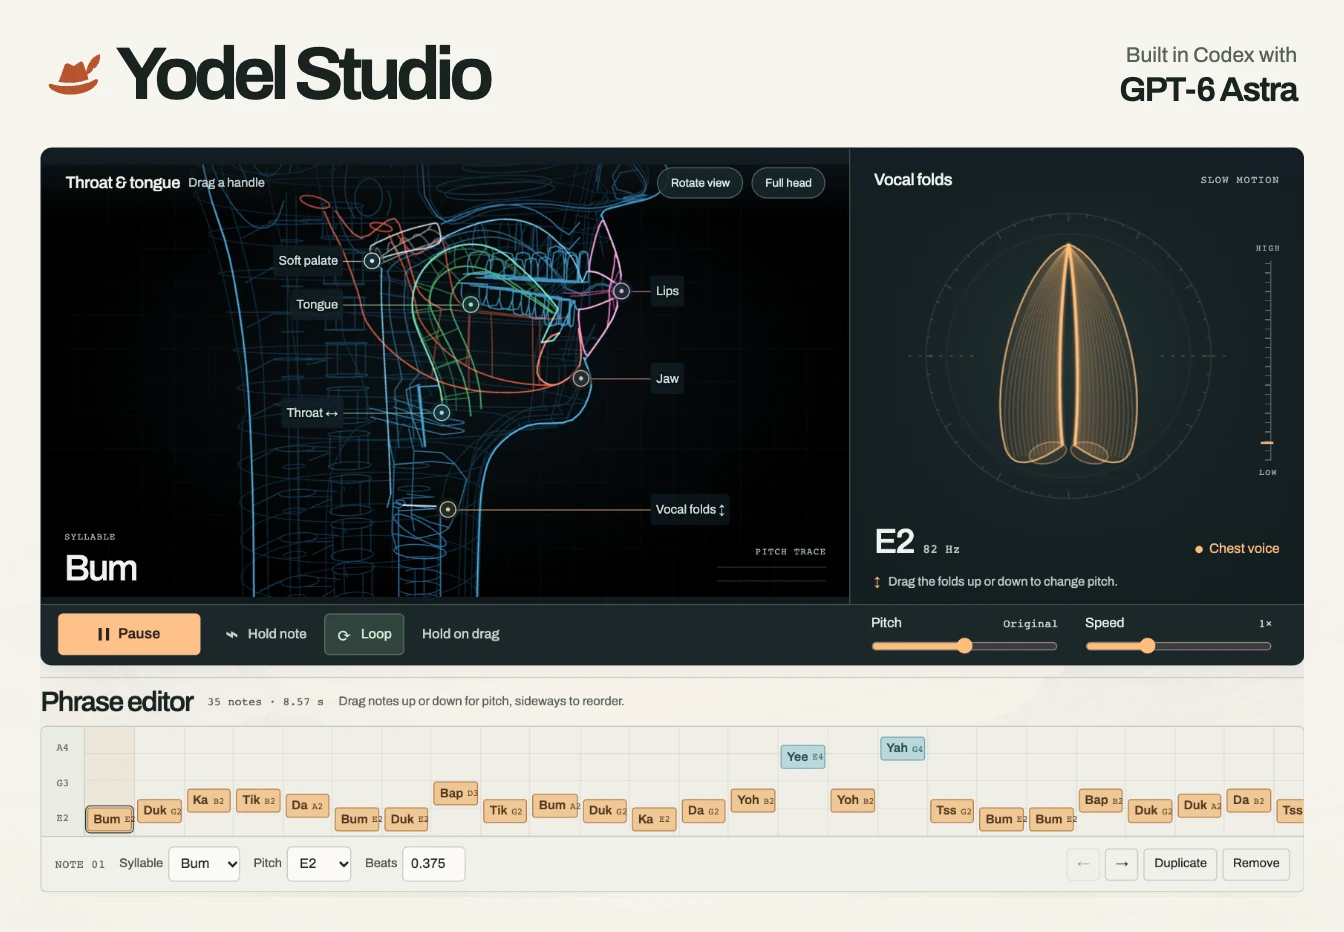
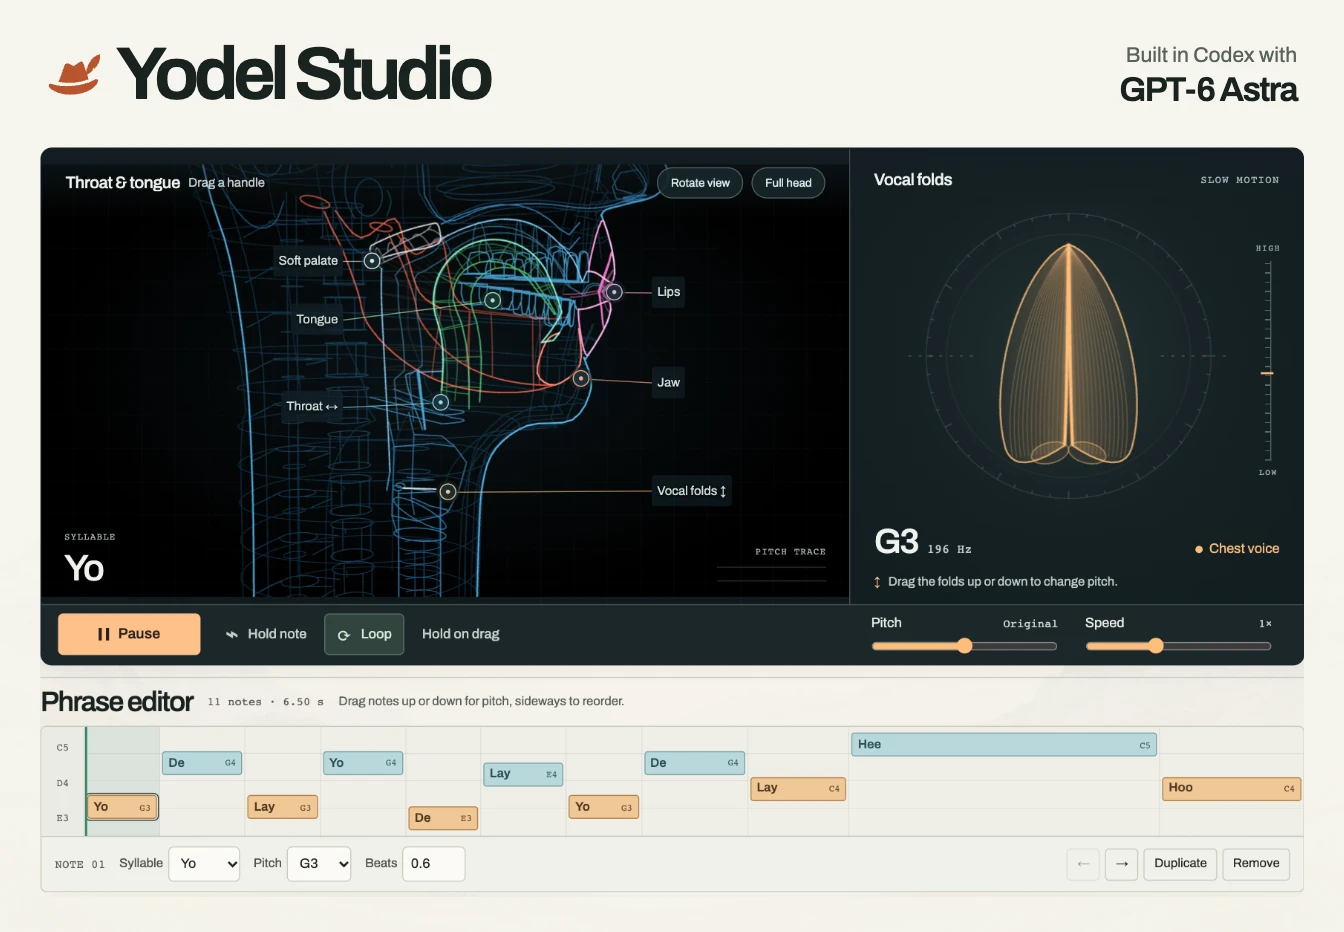
Use lowercase repository links and simplify the README

diff --git a/yodel/index.html b/yodel/index.html
@@ -35,7 +35,7 @@
           <span class="level" aria-hidden="true"><i></i><i></i><i></i><i></i></span
           ><span id="mute-label">Sound on</span>
         </button>
-        <a class="repo-link" href="https://github.com/klausbrave/Yodel-Studio" target="_blank"
+        <a class="repo-link" href="https://github.com/klausbrave/yodel-studio" target="_blank"
           rel="noopener noreferrer" aria-label="Yodel Studio on GitHub (opens in a new tab)" title="Yodel Studio on GitHub">
           <svg width="20" height="20" viewBox="0 0 16 16" aria-hidden="true" focusable="false">
             <path fill="currentColor" d="M8 0C3.58 0 0 3.58 0 8c0 3.54 2.29 6.53 5.47 7.59.4.07.55-.17.55-.38 0-.19-.01-.82-.01-1.49-2.01.37-2.53-.49-2.69-.94-.09-.23-.48-.94-.82-1.13-.28-.15-.68-.52-.01-.53.63-.01 1.08.58 1.23.82.72 1.21 1.87.87 2.33.66.07-.52.28-.87.51-1.07-1.78-.2-3.64-.89-3.64-3.95 0-.87.31-1.59.82-2.15-.08-.2-.36-1.02.08-2.12 0 0 .67-.21 2.2.82a7.44 7.44 0 0 1 2-.27c.68 0 1.36.09 2 .27 1.53-1.04 2.2-.82 2.2-.82.44 1.1.16 1.92.08 2.12.51.56.82 1.27.82 2.15 0 3.07-1.87 3.75-3.65 3.95.29.25.54.73.54 1.48 0 1.07-.01 1.93-.01 2.2 0 .21.15.46.55.38A8.01 8.01 0 0 0 16 8c0-4.42-3.58-8-8-8Z"/>

diff --git a/README.md b/README.md
@@ -4,13 +4,13 @@
 
 Yodel Studio sings in your browser. Press **Play yodel**, grab the tongue or jaw to change a vowel, and pull the vocal folds to bend the pitch. You can turn the whole performance into a song of your own. [Play Yodel Studio](https://yodel-studio.hackhumanity.workers.dev/)
 
-[![Yodel Studio playing Alpine Echo, with six draggable points on the singer, the vibrating vocal folds and the phrase editor](docs/yodel-studio.webp)](https://yodel-studio.hackhumanity.workers.dev/)
+[![Yodel Studio with six draggable points on the singer, the vibrating vocal folds and the phrase editor](docs/yodel-studio.webp)](https://yodel-studio.hackhumanity.workers.dev/)
 
 This project is a focused **fork and expansion of Jameson Hodge’s CHIMERA physical voice model**. Jameson built the simulated vocal tract, glottal source, singing planner and wireframe anatomy. Yodel Studio adds the yodel arrangements, chest-to-falsetto control, live instrument, phrase editor and portable remixes. [Original CHIMERA repository](https://github.com/jamesondh/chimera-vocal-synth) · [Jameson Hodge on X](https://x.com/jamesonhodge)
 
 ## Play it
 
-- Choose **Alpine Echo** for an original four-bar beatbox yodel. Its 35 syllables alternate clipped bass hits with two falsetto answers at 112 BPM. The pitch and speed sliders apply to the whole song.
+- Choose a yodel from the menu. The pitch and speed sliders apply to the whole song.
 - Drag the **lips, jaw, soft palate, tongue, throat or vocal folds** while the music plays. Turn on **Hold on drag** to linger on a syllable. Turn on **Rotate view** when you want to turn the head.
 - Select a note in the **Phrase editor** to change its syllable, pitch or duration. Drag vertically to repitch it, sideways to reorder it, or duplicate it to repeat it. **Reset all** restores the controls and preset phrases. Named remixes stay in your song list.
 - **Remix** makes a full copy you can name and edit. **Share** gives you a playable snapshot. Anyone can open it and make the next remix. The notes and mouth settings travel in the URL fragment, and named drafts save in the current browser.
@@ -53,9 +53,9 @@ With the production preview running and Google Chrome installed, use a second te
 
 ### Original scores and the hosted arrangement
 
-A clean checkout opens with **Alpine Echo** and three wordless practice presets. The hosted studio also preloads my film arrangement of **The Lonely Goatherd**. The song is by Richard Rodgers and Oscar Hammerstein II. The MIT license covers the code. The original music, lyrics, score and film recording retain their respective copyrights.
+The hosted studio preloads my film arrangement of **The Lonely Goatherd**. The song is by Richard Rodgers and Oscar Hammerstein II. The MIT license covers the code. The original music, lyrics, score and film recording retain their respective copyrights.
 
-If you are rebuilding the hosted version and have the local *Goatherd* performance data, place its `performance.json` at `local-scores/goatherd.json` before running `bun run dev` or `bun run build`. The build imports the tempo, duration and timed vocal events. It keeps that input and the generated score out of Git. To write a new original preset, start with the editable Alpine Echo score. [Alpine Echo composition](yodel/alpine-echo.ts)
+If you are rebuilding the hosted version and have the local *Goatherd* performance data, place its `performance.json` at `local-scores/goatherd.json` before running `bun run dev` or `bun run build`. The build imports the tempo, duration and timed vocal events. It keeps that input and the generated score out of Git.
 
 ## Hosting and security
 
